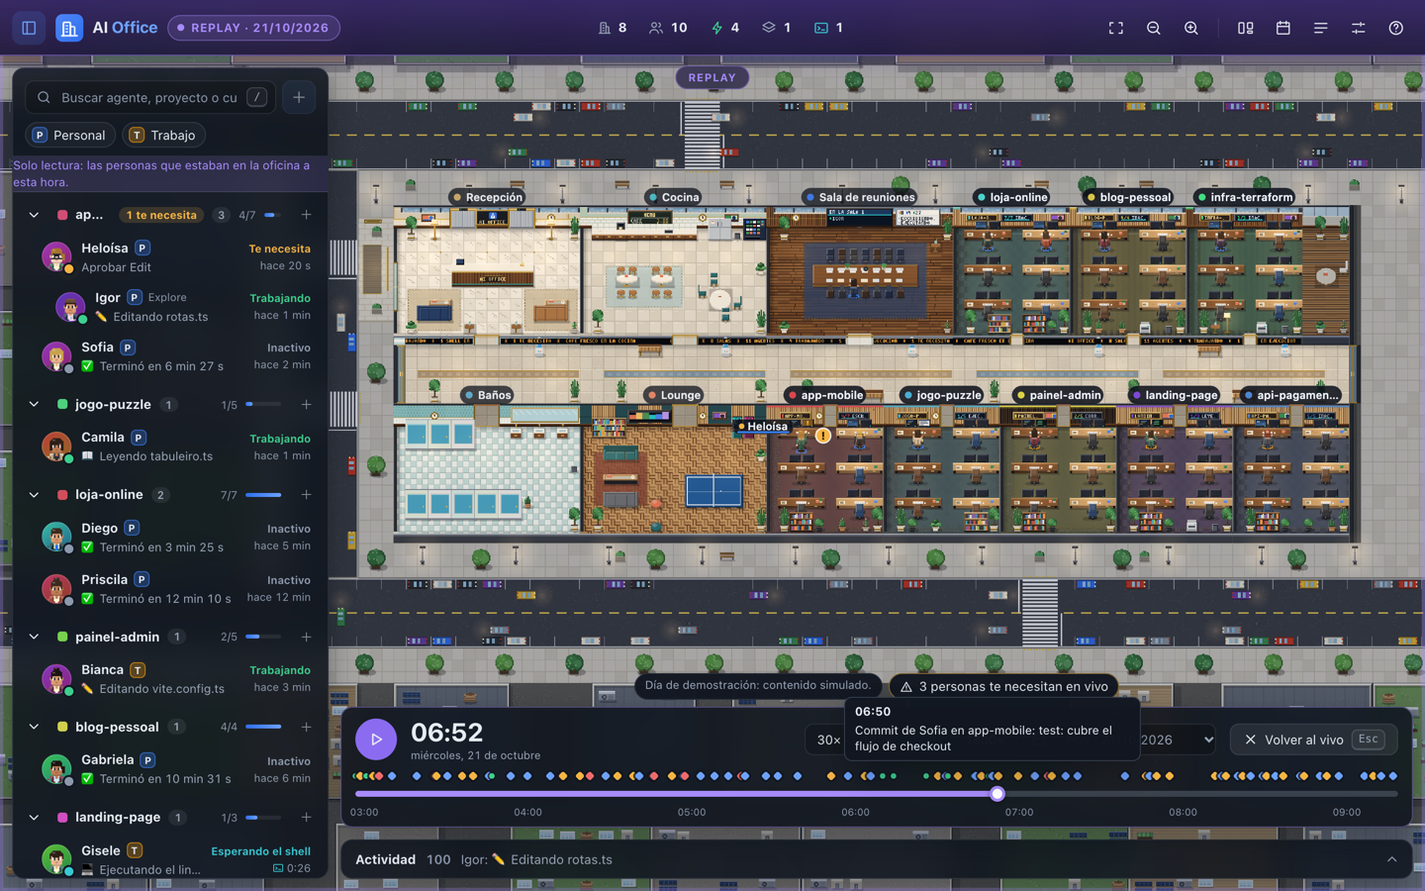
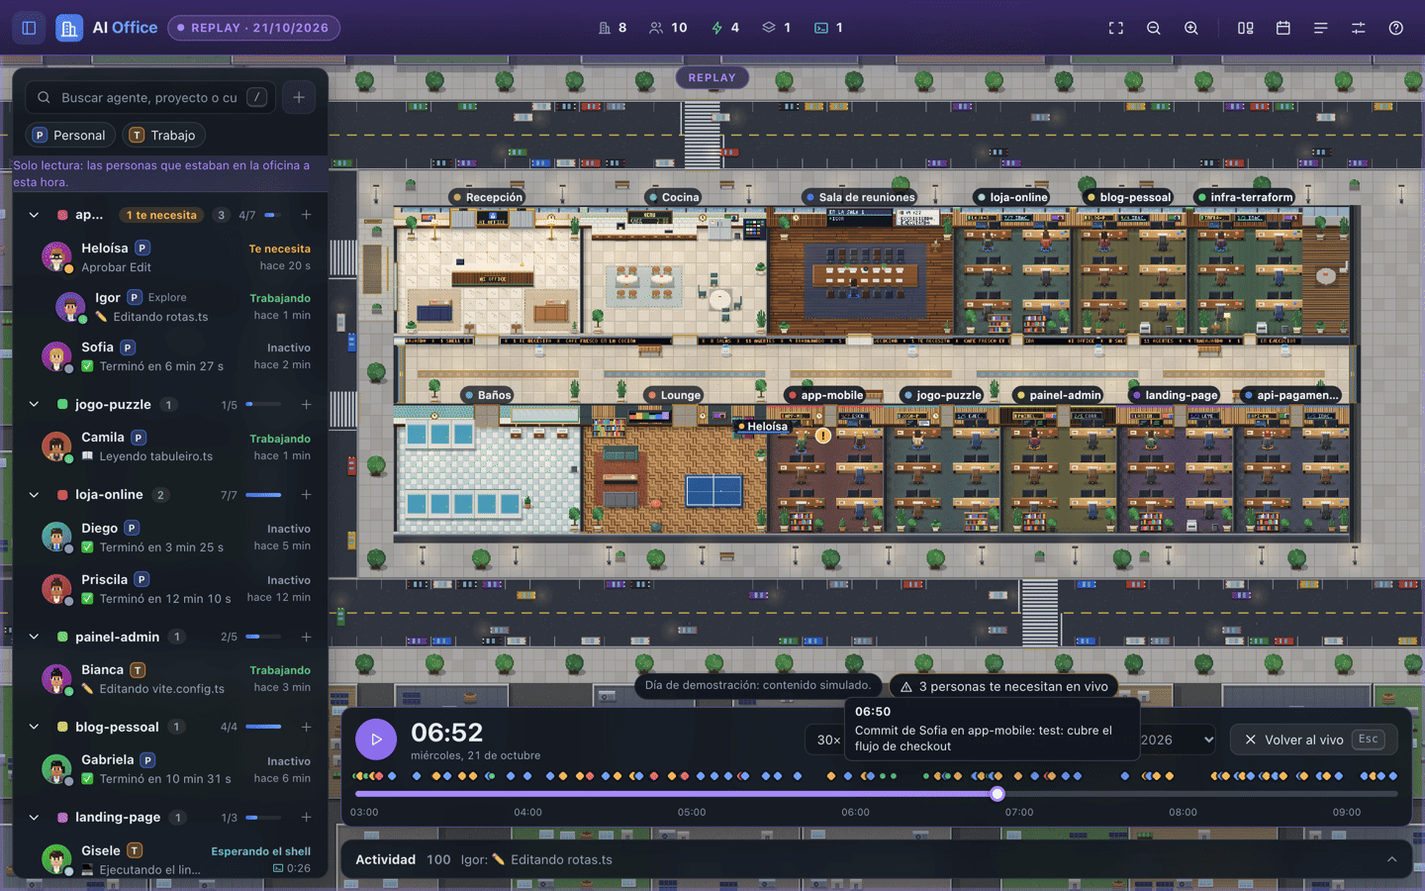
docs: localized README for usage, reports, Git and time-lapse

diff --git a/README.es.md b/README.es.md
@@ -58,10 +58,11 @@ Ves quién está trabajando, quién te necesita y quién espera un comando en el
 | **Quiero que esté siempre encendido** | [Prompt 02](docs/prompts/02-run-at-login.md) | AI Office arranca al iniciar sesión (launchd en macOS, systemd en Linux) |
 | **Uso más de una cuenta de Claude** | [Prompt 04](docs/prompts/04-multiple-accounts.md) | Todas las cuentas en la misma oficina, con el plugin instalado en cada una |
 | **Quiero iniciar agentes desde la oficina** | [Dirige a tu equipo](#team) | Contrata agentes en escritorios vacíos, despeja la bandeja, sigue el tablero de tareas y automatiza las aprobaciones |
+| **Quiero saber a dónde van mis tokens y mi tiempo** | [Consumo, informes y Git](#insights) | Consumo por día, semana y mes, previsión de límite, informe del día, estado de Git por sala, time-lapse |
 | **Algo no funciona** | [Solución de problemas](docs/08-troubleshooting.md) · [Prompt 05](docs/prompts/05-troubleshoot.md) | Primero un diagnóstico de solo lectura, luego correcciones que tú apruebas |
 | **Quiero contribuir** | [Contribuir](CONTRIBUTING.md) · [Prompt 07](docs/prompts/07-contribute.md) | Entorno de desarrollo, verificaciones y convenciones |
 
-**En esta página:** [Instalación](#install) · [Agentes](#watch) · [Permisos y mensajes](#direct) · [Tu equipo](#team) · [2D y 3D](#views) · [Cómo funciona](#how-it-works) · [Privacidad](#privacy) · [Prompts](#prompts) · [Configuración](#configuration) · [Evidencia](#evidence) · [Repositorio](#repository) · [Comunidad](#community).
+**En esta página:** [Instalación](#install) · [Agentes](#watch) · [Permisos y mensajes](#direct) · [Tu equipo](#team) · [Consumo y día](#insights) · [2D y 3D](#views) · [Cómo funciona](#how-it-works) · [Privacidad](#privacy) · [Prompts](#prompts) · [Configuración](#configuration) · [Evidencia](#evidence) · [Repositorio](#repository) · [Comunidad](#community).
 
 <a id="install"></a>
 
@@ -203,9 +204,42 @@ La oficina es también el lugar donde empieza el trabajo y donde lo mantienes en
 
 Contratar requiere tener la página abierta en este computador y abre tu terminal de siempre (Terminal o iTerm en macOS, el terminal de tu escritorio en Linux). La [guía de uso](docs/02-using-the-office.md) detalla cada una, y la [guía del plugin](docs/03-plugin.md) explica cómo las reglas responden a las solicitudes.
 
+<a id="insights"></a>
+
+## 05 / Entérate de a dónde fueron tus tokens y tu día
+
+<table>
+  <tr>
+    <td width="50%"><img src="docs/assets/readme/es/usage.png" alt="El diálogo Consumo: total de tokens, costo estimado, variación frente a la semana pasada y aprovechamiento del caché, un gráfico diario dividido por tipo de token y la previsión de límite." /></td>
+    <td width="50%"><img src="docs/assets/readme/es/day-report.png" alt="El informe del día: agentes, tiempo activo, archivos, commits, pruebas, tareas y costo del día, destacados y una sección por proyecto." /></td>
+  </tr>
+  <tr>
+    <td align="center"><sub>Consumo de hoy, de la semana y del mes, con previsión de límite</sub></td>
+    <td align="center"><sub>Un informe del día que copias o descargas en Markdown</sub></td>
+  </tr>
+</table>
+
+Todo esto se calcula en tu computador a partir de los archivos que Claude Code ya escribe.
+
+| Quieres | En la oficina | Lo que obtienes |
+|---|---|---|
+| **Ver a dónde fueron los tokens** | Haz clic en una tarjeta de uso de la barra superior, o pulsa `U` | **Consumo** de hoy, de la semana y del mes, por cuenta o todas: tokens por tipo, costo estimado, variación frente al período anterior, aprovechamiento del caché, un gráfico por hora o día, y desglose por modelo, proyecto y sesión |
+| **No toparte con el límite por sorpresa** | **Previsión de límite** en el mismo diálogo | Hasta dónde te lleva tu ritmo actual al final de la ventana de 5 h y de la semana, y más o menos cuándo alcanzarías el límite; la tarjeta de uso se pone ámbar cuando faltan menos de 30 minutos. Los planes no exponen sus límites en local, así que indica los tuyos en **Límites (opcional)** o la previsión usa tu bloque reciente más alto |
+| **Escribir el estado de hoy** | **Mi día → Informe** (`R`) | Lo que hizo cada agente: archivos cambiados, comandos, pruebas que pasaron y fallaron, commits, tareas cerradas, tiempo y costo, de hoy o de cualquiera de los últimos 6 días; **Copiar Markdown** o **Descargar .md**. Tus pedidos quedan fuera salvo que los incluyas |
+| **Saber el estado de cada repositorio** | El panel de la sala, la barra lateral y el letrero en la puerta de la sala | Rama, cambios sin confirmar, commits por delante y por detrás, último commit, rebase o merge en curso. Los pull requests y el estado del CI son opcionales y vienen desactivados: activarlos es la única función que sale a internet, a través de tu propio CLI `gh` |
+| **Ponerte al día de lo que pasó mientras no estabas** | **Mi día → Ver el día** (`L`) | El día reproducido en la oficina hasta a 1800× de velocidad, con una línea de tiempo que puedes recorrer y marcadores de llegadas, commits, pruebas fallidas y esperas por permisos |
+
+<p align="center">
+  <img src="docs/assets/readme/es/timelapse-2d.png" alt="La reproducción del día: la oficina 2D como estaba a las 06:52, con la línea de tiempo de llegadas, commits, pruebas fallidas y esperas por permisos abajo y el botón Volver al vivo." width="1200" loading="lazy" />
+  <br />
+  <sub>Ver el día: la oficina reproducida desde la primera sesión, con marcadores en la línea de tiempo</sub>
+</p>
+
+La [guía de uso](docs/02-using-the-office.md) detalla cada vista; la [guía de privacidad](docs/05-privacy-and-security.md) enumera lo que el índice de consumo y el informe guardan en disco (números por proyecto y sesión, nunca el texto de las conversaciones).
+
 <a id="views"></a>
 
-## 05 / 2D por defecto, 3D cuando quieras
+## 06 / 2D por defecto, 3D cuando quieras
 
 <table>
   <tr>
@@ -230,7 +264,7 @@ Ambas vistas comparten el mismo edificio, las mismas personas y la misma interfa
 
 <a id="how-it-works"></a>
 
-## 06 / Cómo funciona
+## 07 / Cómo funciona
 
 <p align="center">
   <picture>
@@ -255,7 +289,7 @@ La [guía de arquitectura](docs/07-architecture.md) y las [especificaciones](doc
 
 <a id="privacy"></a>
 
-## 07 / Privado por diseño
+## 08 / Privado por diseño
 
 <p align="center">
   <picture>
@@ -264,11 +298,12 @@ La [guía de arquitectura](docs/07-architecture.md) y las [especificaciones](doc
   </picture>
 </p>
 
-AI Office se hizo pensando en código que quizá no quieras compartir. Nunca envía nada a ningún lado.
+AI Office se hizo pensando en código que quizá no quieras compartir. No envía nada a ningún lado; la única excepción es opcional y viene desactivada: consultar pull requests a través de tu propio CLI `gh`.
 
 | Protección | Cómo |
 |---|---|
 | **Solo local** | Escucha en `127.0.0.1`; cualquier otra dirección se rechaza salvo que lo actives con `AI_OFFICE_ALLOW_REMOTE=1` |
+| **Números, no conversaciones** | El índice de consumo y el informe del día guardan conteos de tokens, costos, nombres de archivos y comandos; los prompts y las respuestas nunca se guardan |
 | **Solo lectura sobre Claude Code** | Lee los archivos de sesión; nunca los edita |
 | **Autenticado** | Un token aleatorio en `~/.ai-office/token` (modo 0600); la página recibe una cookie HttpOnly y los hooks demuestran que tienen el token |
 | **Superficie del navegador reforzada** | Content Security Policy estricta, solicitudes entre sitios rechazadas, incrustación en frames denegada |
@@ -278,7 +313,7 @@ Lee la [guía de privacidad y seguridad](docs/05-privacy-and-security.md) y repo
 
 <a id="prompts"></a>
 
-## 08 / Prompts para cada paso
+## 09 / Prompts para cada paso
 
 Elige una tarea, abre el prompt y pega el bloque indicado en un agente con acceso a la terminal. El [catálogo](docs/prompts/README.md) explica cada uno.
 
@@ -294,7 +329,7 @@ Elige una tarea, abre el prompt y pega el bloque indicado en un agente con acces
 
 <a id="configuration"></a>
 
-## 09 / Configúralo a tu manera
+## 10 / Configúralo a tu manera
 
 Los valores por defecto sirven para la mayoría de las personas. Define variables de entorno (o las flags equivalentes) solo cuando lo necesites:
 
@@ -319,12 +354,12 @@ El texto que viene de tus propias sesiones (prompts, títulos de tareas, comando
 
 <a id="evidence"></a>
 
-## 10 / Evidencia y límites
+## 11 / Evidencia y límites
 
 | Verificación | Cómo |
 |---|---|
 | **Tipos** | TypeScript estricto en los cuatro paquetes: `npm run typecheck` |
-| **Comportamiento** | Más de 1600 pruebas con Vitest, incluida una suite de extremo a extremo que levanta el servidor real: `npm test` |
+| **Comportamiento** | Más de 2200 pruebas con Vitest, incluida una suite de extremo a extremo que levanta el servidor real: `npm test` |
 | **Estilo** | ESLint y Prettier: `npm run lint` |
 | **Build** | Bundle web y bundle del servidor: `npm run build` |
 | **Documentación** | Todo enlace local, ancla y traducción del README verificados: `npm run docs:check` |
@@ -341,7 +376,7 @@ Tu pantalla limita lo que ves (normalmente 60 fps). La escena nocturna en 3D es 
 
 <a id="repository"></a>
 
-## 11 / Explora el repositorio
+## 12 / Explora el repositorio
 
 ```text
 ai-office/
@@ -381,7 +416,7 @@ npm run docs:check
 
 <a id="community"></a>
 
-## 12 / Sigue el proyecto
+## 13 / Sigue el proyecto
 
 Si AI Office hizo que tus agentes fueran más fáciles de seguir, una estrella ayuda a que otras personas lo encuentren.
 

diff --git a/README.pt-BR.md b/README.pt-BR.md
@@ -58,10 +58,11 @@ Você vê quem está trabalhando, quem precisa de você e quem está esperando u
 | **Quero que fique sempre ligado** | [Prompt 02](docs/prompts/02-run-at-login.md) | O AI Office inicia no login (launchd no macOS, systemd no Linux) |
 | **Uso mais de uma conta do Claude** | [Prompt 04](docs/prompts/04-multiple-accounts.md) | Todas as contas no mesmo escritório, com o plugin instalado em cada uma |
 | **Quero iniciar agentes pelo escritório** | [Comande seu time](#team) | Contrate agentes em mesas vazias, organize a fila, acompanhe o quadro de tarefas e automatize aprovações |
+| **Quero saber para onde vão meus tokens e meu tempo** | [Consumo, relatórios e Git](#insights) | Consumo por dia, semana e mês, previsão de limite, relatório do dia, estado do Git por sala, time-lapse |
 | **Algo não está funcionando** | [Solução de problemas](docs/08-troubleshooting.md) · [Prompt 05](docs/prompts/05-troubleshoot.md) | Primeiro um diagnóstico somente leitura, depois correções que você aprova |
 | **Quero contribuir** | [Contribuindo](CONTRIBUTING.md) · [Prompt 07](docs/prompts/07-contribute.md) | Ambiente de desenvolvimento, verificações e convenções |
 
-**Nesta página:** [Instalação](#install) · [Agentes](#watch) · [Permissões e mensagens](#direct) · [Seu time](#team) · [2D e 3D](#views) · [Como funciona](#how-it-works) · [Privacidade](#privacy) · [Prompts](#prompts) · [Configuração](#configuration) · [Evidências](#evidence) · [Repositório](#repository) · [Comunidade](#community).
+**Nesta página:** [Instalação](#install) · [Agentes](#watch) · [Permissões e mensagens](#direct) · [Seu time](#team) · [Consumo e dia](#insights) · [2D e 3D](#views) · [Como funciona](#how-it-works) · [Privacidade](#privacy) · [Prompts](#prompts) · [Configuração](#configuration) · [Evidências](#evidence) · [Repositório](#repository) · [Comunidade](#community).
 
 <a id="install"></a>
 
@@ -203,9 +204,42 @@ O escritório também é o lugar onde o trabalho começa e continua andando, sem
 
 Contratar exige a página aberta neste computador e abre o seu terminal de costume (Terminal ou iTerm no macOS, o terminal do seu desktop no Linux). O [guia de uso](docs/02-using-the-office.md) detalha cada um, e o [guia do plugin](docs/03-plugin.md) explica como as regras respondem aos pedidos.
 
+<a id="insights"></a>
+
+## 05 / Saiba para onde foram seus tokens e o seu dia
+
+<table>
+  <tr>
+    <td width="50%"><img src="docs/assets/readme/pt-BR/usage.png" alt="O diálogo Consumo: total de tokens, custo estimado, variação em relação à semana passada e reaproveitamento do cache, um gráfico diário dividido por tipo de token e a previsão de limite." /></td>
+    <td width="50%"><img src="docs/assets/readme/pt-BR/day-report.png" alt="O relatório do dia: agentes, tempo ativo, arquivos, commits, testes, tarefas e custo do dia, destaques e uma seção por projeto." /></td>
+  </tr>
+  <tr>
+    <td align="center"><sub>Consumo de hoje, da semana e do mês, com previsão de limite</sub></td>
+    <td align="center"><sub>Um relatório do dia que você copia ou baixa em Markdown</sub></td>
+  </tr>
+</table>
+
+Tudo aqui é calculado no seu computador, a partir dos arquivos que o Claude Code já grava.
+
+| Você quer | No escritório | O que você recebe |
+|---|---|---|
+| **Ver para onde foram os tokens** | Clique num cartão de uso na barra superior, ou `U` | **Consumo** de hoje, da semana e do mês, por conta ou todas: tokens por tipo, custo estimado, variação em relação ao período anterior, reaproveitamento do cache, um gráfico por hora ou dia, e detalhamento por modelo, projeto e sessão |
+| **Não esbarrar no limite de surpresa** | **Previsão de limite** no mesmo diálogo | Até onde o seu ritmo atual leva você no fim da janela de 5 h e da semana, e mais ou menos quando você chegaria ao limite; o cartão de uso fica âmbar quando faltam menos de 30 minutos. Os planos não expõem os limites localmente, então informe os seus em **Limites (opcional)** ou a previsão usa o seu maior bloco recente |
+| **Escrever o status de hoje** | **Meu dia → Relatório** (`R`) | O que cada agente fez: arquivos alterados, comandos, testes que passaram e falharam, commits, tarefas concluídas, tempo e custo, de hoje ou de qualquer um dos últimos 6 dias; **Copiar Markdown** ou **Baixar .md**. Os seus pedidos ficam de fora, a menos que você os inclua |
+| **Saber o estado de cada repositório** | A gaveta da sala, a barra lateral e a placa na porta da sala | Branch, alterações não commitadas, commits à frente e atrás, último commit, rebase ou merge em andamento. Pull requests e status do CI são opcionais e vêm desligados: ligá-los é o único recurso que vai à internet, pelo seu próprio CLI `gh` |
+| **Ver o que aconteceu enquanto você estava fora** | **Meu dia → Assistir ao dia** (`L`) | O dia reproduzido no escritório a até 1800× de velocidade, com uma linha do tempo para navegar e marcadores de chegadas, commits, testes que falharam e esperas por permissão |
+
+<p align="center">
+  <img src="docs/assets/readme/pt-BR/timelapse-2d.png" alt="A reprodução do dia: o escritório 2D como estava às 06:51, com a linha do tempo de chegadas, commits, testes que falharam e esperas por permissão na parte de baixo e o botão Voltar ao vivo." width="1200" loading="lazy" />
+  <br />
+  <sub>Assistir ao dia: o escritório reproduzido desde a primeira sessão, com marcadores na linha do tempo</sub>
+</p>
+
+O [guia de uso](docs/02-using-the-office.md) detalha cada vista; o [guia de privacidade](docs/05-privacy-and-security.md) lista o que o índice de consumo e o relatório guardam em disco (números por projeto e sessão, nunca o texto das conversas).
+
 <a id="views"></a>
 
-## 05 / 2D por padrão, 3D quando você quiser
+## 06 / 2D por padrão, 3D quando você quiser
 
 <table>
   <tr>
@@ -230,7 +264,7 @@ As duas vistas compartilham o mesmo prédio, as mesmas pessoas e a mesma interfa
 
 <a id="how-it-works"></a>
 
-## 06 / Como funciona
+## 07 / Como funciona
 
 <p align="center">
   <picture>
@@ -255,7 +289,7 @@ O [guia de arquitetura](docs/07-architecture.md) e as [especificações](docs/sp
 
 <a id="privacy"></a>
 
-## 07 / Privado por princípio
+## 08 / Privado por princípio
 
 <p align="center">
   <picture>
@@ -264,11 +298,12 @@ O [guia de arquitetura](docs/07-architecture.md) e as [especificações](docs/sp
   </picture>
 </p>
 
-O AI Office foi feito para código que você talvez não queira compartilhar. Ele nunca envia nada para lugar nenhum.
+O AI Office foi feito para código que você talvez não queira compartilhar. Ele não envia nada para lugar nenhum; a única exceção é opcional e vem desligada: consultar pull requests pelo seu próprio CLI `gh`.
 
 | Proteção | Como |
 |---|---|
 | **Somente local** | Escuta em `127.0.0.1`; qualquer outro endereço é recusado, a menos que você ative com `AI_OFFICE_ALLOW_REMOTE=1` |
+| **Números, não conversas** | O índice de consumo e o relatório do dia guardam contagens de tokens, custos, nomes de arquivos e comandos; prompts e respostas nunca são guardados |
 | **Somente leitura no Claude Code** | Lê os arquivos de sessão; nunca os edita |
 | **Autenticado** | Um token aleatório em `~/.ai-office/token` (modo 0600); a página recebe um cookie HttpOnly e os hooks provam que possuem o token |
 | **Superfície do navegador reforçada** | Content Security Policy estrita, requisições entre sites rejeitadas, incorporação em frames bloqueada |
@@ -278,7 +313,7 @@ Leia o [guia de privacidade e segurança](docs/05-privacy-and-security.md) e rel
 
 <a id="prompts"></a>
 
-## 08 / Prompts para cada etapa
+## 09 / Prompts para cada etapa
 
 Escolha uma tarefa, abra o prompt e cole o bloco indicado em um agente com acesso ao terminal. O [catálogo](docs/prompts/README.md) explica cada um.
 
@@ -294,7 +329,7 @@ Escolha uma tarefa, abra o prompt e cole o bloco indicado em um agente com acess
 
 <a id="configuration"></a>
 
-## 09 / Configure do seu jeito
+## 10 / Configure do seu jeito
 
 Os padrões servem para a maioria das pessoas. Defina variáveis de ambiente (ou as flags equivalentes) só quando precisar:
 
@@ -319,12 +354,12 @@ O texto que vem das suas próprias sessões (prompts, títulos de tarefas, coman
 
 <a id="evidence"></a>
 
-## 10 / Evidências e limites
+## 11 / Evidências e limites
 
 | Verificação | Como |
 |---|---|
 | **Tipos** | TypeScript em modo strict nos quatro pacotes: `npm run typecheck` |
-| **Comportamento** | Mais de 1600 testes com Vitest, incluindo uma suíte de ponta a ponta que sobe o servidor de verdade: `npm test` |
+| **Comportamento** | Mais de 2200 testes com Vitest, incluindo uma suíte de ponta a ponta que sobe o servidor de verdade: `npm test` |
 | **Estilo** | ESLint e Prettier: `npm run lint` |
 | **Build** | Bundle web e bundle do servidor: `npm run build` |
 | **Documentação** | Todo link local, âncora e tradução do README verificados: `npm run docs:check` |
@@ -341,7 +376,7 @@ A sua tela limita o que você enxerga (geralmente 60 fps). A cena noturna em 3D 
 
 <a id="repository"></a>
 
-## 11 / Explore o repositório
+## 12 / Explore o repositório
 
 ```text
 ai-office/
@@ -381,7 +416,7 @@ npm run docs:check
 
 <a id="community"></a>
 
-## 12 / Acompanhe o projeto
+## 13 / Acompanhe o projeto
 
 Se o AI Office deixou seus agentes mais fáceis de acompanhar, uma estrela ajuda outras pessoas a encontrá-lo.
 

diff --git a/docs/06-validation.md b/docs/06-validation.md
@@ -21,13 +21,13 @@ npm run typecheck && npm run lint && npm test && npm run build && npm run docs:t
 
 ### Tests
 
-At the time of writing (2026-10-20) the suite has **1776 tests in 121 files**, from one `npx vitest run --project <name>` run per package:
+At the time of writing (2026-10-21) the suite has **2267 tests in 163 files**, from one `npx vitest run --project <name>` run per package:
 
 | Package | Tests | Files | What is exercised |
 | --- | --- | --- | --- |
-| `shared` | 564 | 26 | Activity text, names, colors, formatting, hashing and the demo simulator; the usage periods (daylight-saving-safe local days, weeks and months), the hourly aggregation, the 5 h windows and peaks, the limit forecast and the demo usage history; the localization core (message format, plural rules, translator fallbacks) and the **server and demo message catalogs**, whose tests check that pt-BR, English and Spanish define exactly the same keys and placeholders. |
-| `server` | 429 | 36 | Transcript parsing and tailing, the usage index (parsing, duplicate lines of one message, incremental resume across restarts, damaged or interrupted saves, replaced transcripts, private file modes) and `GET /api/usage/detail` (token, validation, local-only), status derivation, subagent lifecycle, stats and cost, registries (permissions, messages, attention), the hiring service (folder checks, terminal launch command, limits), the approval-rules store, the request guard, `locale` validation, token auth, configuration, and an **end-to-end HTTP suite that boots the real server** on a free port. |
-| `web` | 661 | 52 | The store and reconnection, the stream parser, preferences (including the language and the usage limits), the usage chart geometry, the forecast sentences and alerts and the limits form, the inbox controller (bulk and keyboard triage, risky requests), the task board store, the approval-rules controller, UI models (counters, notifications, delivery, terminal, day) in all three languages, locale-aware formatting, the **UI and world catalogs** (same keys in every language, no unused or missing keys), the 2D layout and simulation, cameras and picking in both worlds, and pure parts of the 3D scene. |
+| `shared` | 634 | 32 | Activity text, names, colors, formatting, hashing and the demo simulator; the usage periods (daylight-saving-safe local days, weeks and months), the hourly aggregation, the 5 h windows and peaks, the limit forecast and the demo usage history; the localization core (message format, plural rules, translator fallbacks) and the **server and demo message catalogs**, whose tests check that pt-BR, English and Spanish define exactly the same keys and placeholders. |
+| `server` | 687 | 56 | Transcript parsing and tailing, the usage index (parsing, duplicate lines of one message, incremental resume across restarts, damaged or interrupted saves, replaced transcripts, private file modes) and `GET /api/usage/detail` (token, validation, local-only), status derivation, subagent lifecycle, stats and cost, registries (permissions, messages, attention), the hiring service (folder checks, terminal launch command, limits), the approval-rules store, the request guard, `locale` validation, token auth, configuration, and an **end-to-end HTTP suite that boots the real server** on a free port. |
+| `web` | 824 | 68 | The store and reconnection, the stream parser, preferences (including the language and the usage limits), the usage chart geometry, the forecast sentences and alerts and the limits form, the inbox controller (bulk and keyboard triage, risky requests), the task board store, the approval-rules controller, UI models (counters, notifications, delivery, terminal, day) in all three languages, locale-aware formatting, the **UI and world catalogs** (same keys in every language, no unused or missing keys), the 2D layout and simulation, cameras and picking in both worlds, and pure parts of the 3D scene. |
 | `plugins` | 122 | 7 | Each hook **run as a real child process** against a small in-process fake server (allow, deny, terminal, offline exit speed, message delivery, stand-by wake-up, subagent guard, the language of denials and message preambles), the token and challenge logic, the installer's planning with a fake `claude` CLI, and the plugin and marketplace manifests. |
 
 All fixtures are synthetic: temporary directories and invented transcripts, never real sessions.

diff --git a/README.md b/README.md
@@ -229,6 +229,12 @@ Everything here is computed on your computer from the files Claude Code already 
 | **Know the state of each repository** | The room drawer, the sidebar and the sign on the room's door | Branch, uncommitted changes, ahead and behind, last commit, rebase or merge in progress. Pull requests and CI status are optional and off by default: turning them on is the only feature that goes online, through your own `gh` CLI |
 | **Catch up on what happened while you were away** | **My day → Watch the day** (`L`) | The day replayed in the office at up to 1800× speed, with a timeline you can scrub and markers for arrivals, commits, failed tests and permission waits |
 
+<p align="center">
+  <img src="docs/assets/readme/en/timelapse-2d.png" alt="The day replay: the 2D office as it was at 6:52 AM, with a timeline of arrivals, commits, failed tests and permission waits along the bottom and a Back to live button." width="1200" loading="lazy" />
+  <br />
+  <sub>Watch the day: the office replayed from the first session, with markers on the timeline</sub>
+</p>
+
 The [user guide](docs/02-using-the-office.md) details each view; the [privacy guide](docs/05-privacy-and-security.md) lists what the usage index and the report keep on disk (numbers per project and session, never conversation text).
 
 <a id="views"></a>
@@ -353,7 +359,7 @@ Text that comes from your own sessions (prompts, task titles, commands, file nam
 | Check | How |
 |---|---|
 | **Types** | TypeScript strict across the four packages: `npm run typecheck` |
-| **Behavior** | 1600+ Vitest tests, including an end-to-end suite that boots the real server: `npm test` |
+| **Behavior** | 2200+ Vitest tests, including an end-to-end suite that boots the real server: `npm test` |
 | **Style** | ESLint and Prettier: `npm run lint` |
 | **Build** | Web bundle and server bundle: `npm run build` |
 | **Documentation** | Every local link, anchor and README translation checked: `npm run docs:check` |
